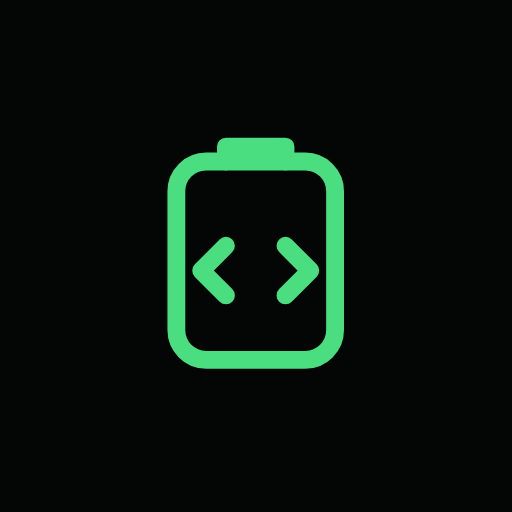
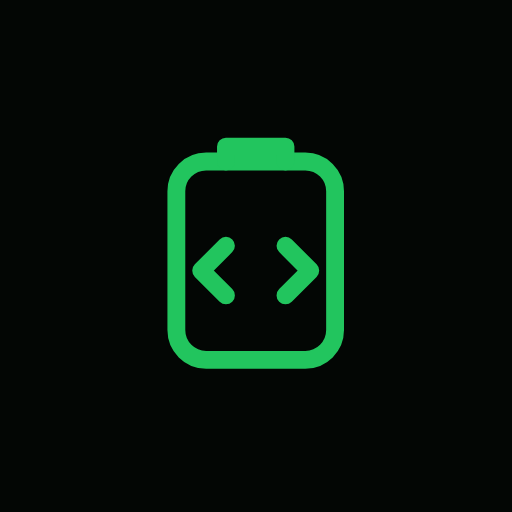
Dark theme: switch to forest green (#22c55e); tidy share image layout
Claude-Session: https://claude.ai/code/session_01XHDLp5wUADW6ja2Ysovrqv

Changed region(s): [[0.3125, 0.25, 0.6875, 0.7188]]

diff --git a/webclipboard/src/styles/global.css b/webclipboard/src/styles/global.css
@@ -20,14 +20,14 @@
   --bg: #030604;
   --surface: #070d09;
   --surface-2: #0c1610;
-  --fg: #6ee7a0;
-  --muted: #4f9d6f;
-  --line: #12301f;
-  --line-strong: #226b45;
-  --invert-bg: #4ade80;
+  --fg: #22c55e;
+  --muted: #1fa550;
+  --line: #0f3320;
+  --line-strong: #166534;
+  --invert-bg: #22c55e;
   --invert-fg: #021008;
   --danger: #ff8a80;
-  --shadow: 0 1px 0 rgba(74, 222, 128, 0.06), 0 18px 40px -20px rgba(0, 0, 0, 0.9);
+  --shadow: 0 1px 0 rgba(34, 197, 94, 0.07), 0 18px 40px -20px rgba(0, 0, 0, 0.9);
   color-scheme: dark;
 }
 
